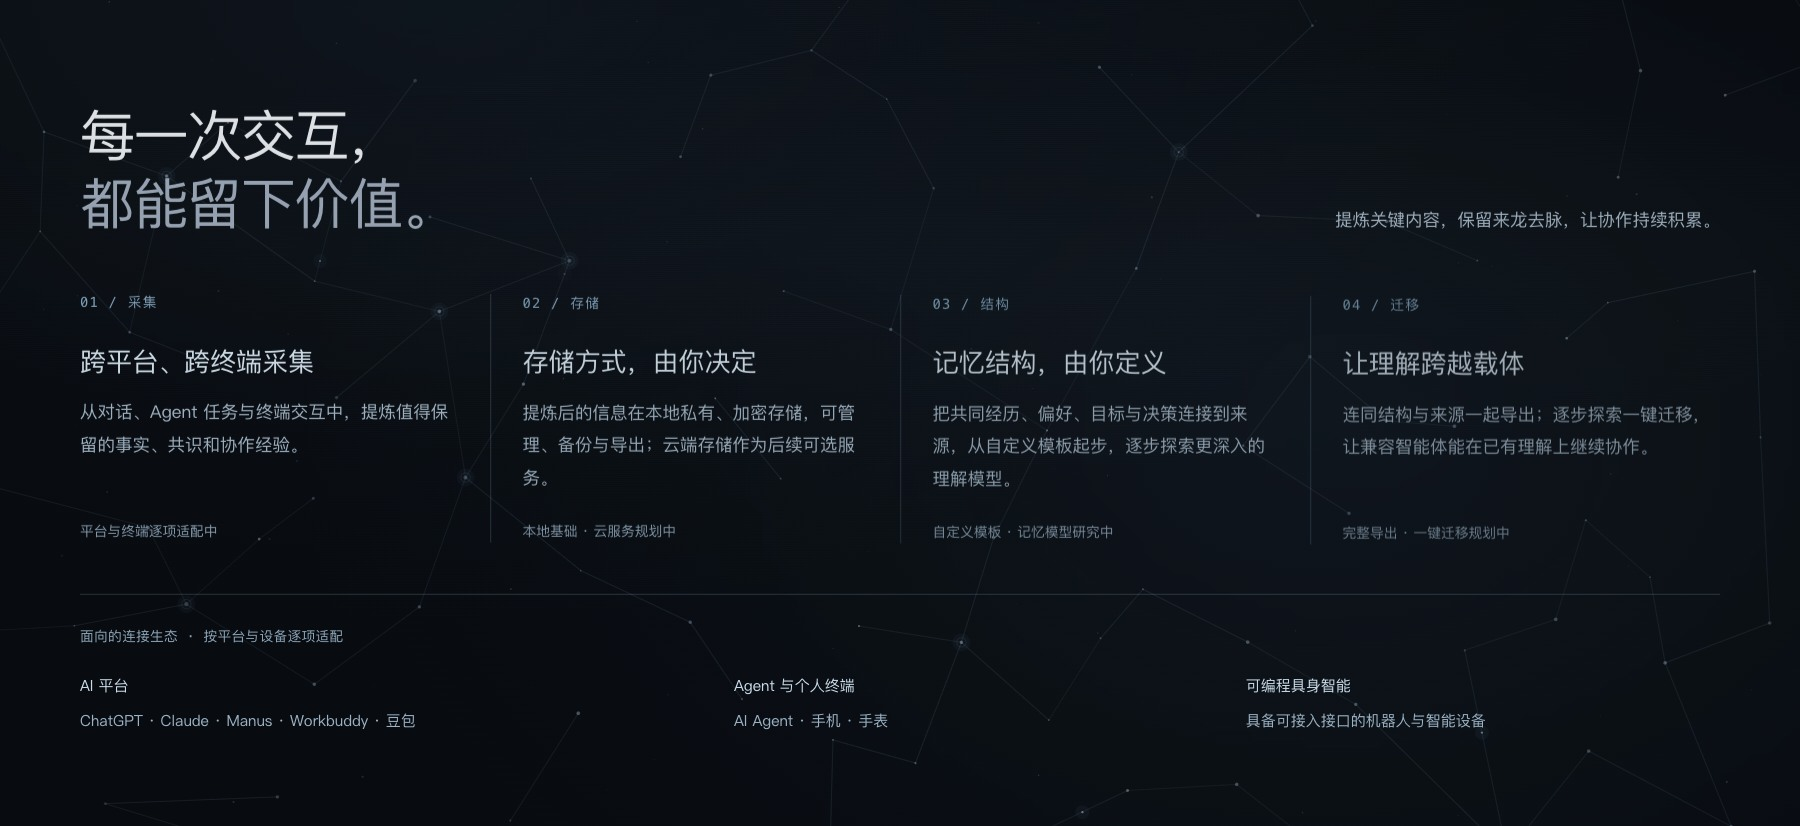
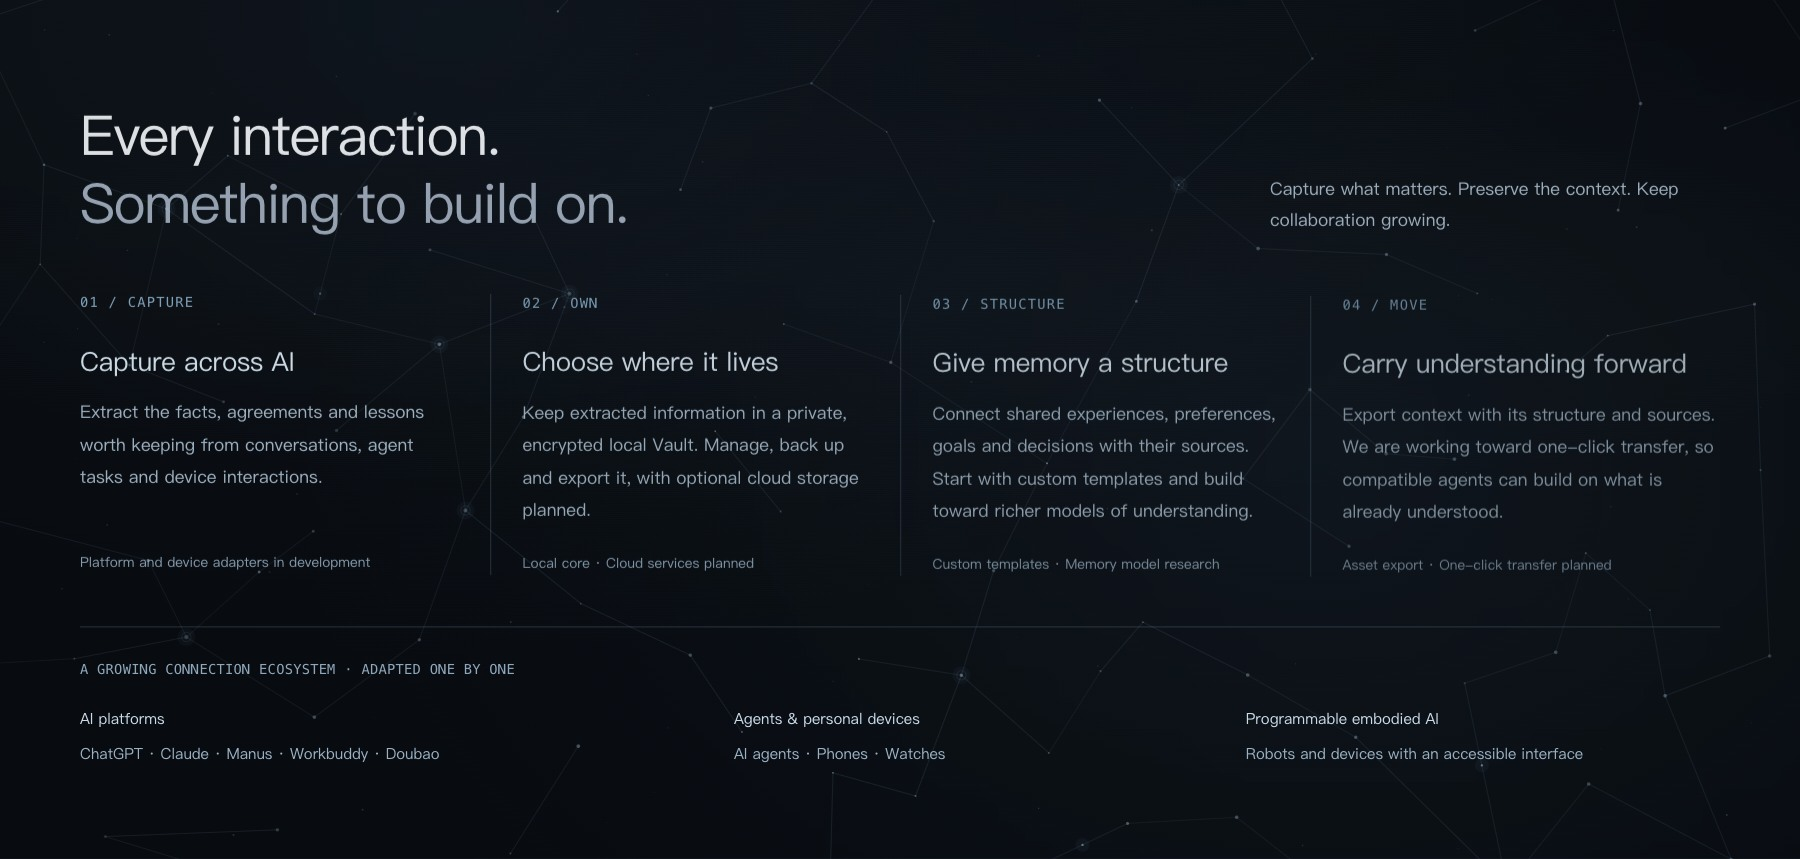
Refresh bilingual origin story and publish English website visuals and animations

diff --git a/README.en.md b/README.en.md
@@ -20,11 +20,21 @@ You have already explained your project, preferences, decisions and next steps t
 
 Nova Memory turns useful collaboration context into a personal asset you can maintain. Keep the original words, their source, the conditions that matter and the history of a change. Let an authorized AI pick up the relevant context when it is useful again.
 
-This repository is a **local source preview**. All visuals use English. The website hero presents the design direction; diagrams explain product mechanisms, and the animation illustrates memory accumulation. Diagrams and animation are conceptual, rather than UI recordings. See the [image provenance](docs/media/README.md).
+This repository is a **local source preview**. Both README editions use English visuals. Website sections show the design and research direction; the horizontal animation explains capture, structuring and scoped reuse, while the memory-sphere animation is a local render of the English website. Neither animation is a recording of a live personal Vault. See the [image provenance](docs/media/README.md).
+
+## It started with conversations on my commute
+
+Nova is my AI voice assistant. Conversations on my commute became a place to discuss products, work, investing and everyday life. Ideas for Awesome Stock, Atom Awareness, Nova Digital Marketing Platform and Intelligence Hub developed through those conversations and continued at the computer.
+
+As we kept working together, she became more familiar with the background to these projects and choices. Nova began to feel like a personal Jarvis. Yet the context remained scattered across platforms and conversations. Moving to Cursor or another research tool meant explaining earlier decisions, failed approaches and unresolved questions again.
+
+Nova Memory grew from that need. It is Atom Awareness's second product line: keep a lasting, maintainable record of shared experience, so a familiar companion can continue working across AI platforms and, eventually, devices.
 
 ## The product
 
 Four connected ideas guide the product, from an interaction worth keeping to an ongoing collaboration.
+
+![Capture, own, structure and move: the English website product overview](docs/media/website-four-pillars.jpg)
 
 | Pillar | What it gives you | Design intent |
 | --- | --- | --- |
@@ -33,23 +43,13 @@ Four connected ideas guide the product, from an interaction worth keeping to an 
 | **Structure** | Organize experiences, preferences, goals and decisions with their evidence | Preserve context, time, uncertainty and corrections as the structure develops |
 | **Move** | Carry relevant understanding into another AI or task | Connect tools to a shared memory store or select a one-time context pack |
 
-![Capture, own, structure and continue](docs/media/memory-workflow.png)
-
 Selected content arrives through MCP connectors or plugins; supported Hook events can also send material to the capture interface. Originals and provenance are stored in the local Vault before asynchronous extraction of conditions, relationships and versions. Authorization is checked before retrieval, then scoped context is delivered through MCP or a Context Pack. A shared memory store does not require cloud hosting.
 
-![Cross-AI capture and scoped reuse](docs/media/memory-architecture.png)
+![Cross-AI capture and reuse](docs/media/memory-architecture.gif)
 
-*Architecture illustration. Nodes and links represent accumulation; geometry does not encode real semantic distance. Actual relationships depend on provenance and structure rules. Platform availability is listed below.*
+*Conceptual architecture animation. Nodes and links illustrate accumulation; geometry does not encode real semantic distance. Actual relationships depend on provenance and structure rules. Platform availability is listed below.*
 
 For example, “During the Atlas launch phase, schedule weekday team meetings after 14:00, except for urgent incidents.” A useful memory carries the preference, its project phase and its exception. When circumstances change, revise the memory and retain its previous version and reasoning.
-
-## It started with conversations on my commute
-
-Nova is my AI voice assistant. Conversations on my commute became a place to discuss products, work, investing and everyday life. Ideas for Awesome Stock, Atom Awareness, Nova Digital Marketing Platform and Intelligence Hub developed through those conversations and continued at the computer.
-
-As that shared history grew, Nova began to feel like a personal Jarvis. Yet the context remained scattered across platforms and conversations. Moving to Cursor or another research tool meant explaining earlier decisions, failed approaches and unresolved questions again.
-
-Nova Memory grew from that need. It is Atom Awareness's second product line: keep a lasting, maintainable record of shared experience, so a familiar companion can continue working across AI platforms and, eventually, devices.
 
 ## Inside the workbench
 
@@ -89,6 +89,8 @@ A text copy is retained by its recipient. Later corrections and revocation contr
 
 **NMM · Nova Memory Model** is the research codename for Nova's memory structure work. It explores how episodes, claims, goals and decisions can form traceable, revisable and evolving understanding.
 
+![The English website memory structure concept](docs/media/website-memory-model.jpg)
+
 The product organizes this work into three layers.
 
 ![Original materials, structured memory and ongoing understanding](docs/media/memory-layers.png)
@@ -111,7 +113,7 @@ Some foundations need to remain dependable as the structure evolves.
 Six connected research perspectives extend this foundation.
 
 <p align="center">
-  <img src="docs/media/memory-network.gif" width="640" alt="English conceptual memory sphere">
+  <img src="docs/media/memory-network.gif" width="640" alt="English website memory sphere: episodes, claims, goals, decisions, personal model and evolution">
 </p>
 
 | Perspective | The question it explores |
@@ -125,7 +127,16 @@ Six connected research perspectives extend this foundation.
 
 The current product includes structured records, provenance, versions, Wiki views and graph projections. Deeper personal models, complex relationships and cross-device projections remain research directions to validate through use.
 
+<details>
+<summary>Explore the English website structure concept</summary>
+
+![English website concept explorer: objects, evidence, relations, time and authority](docs/media/website-structure-explorer.jpg)
+
+</details>
+
 ## Memory under your control
+
+![English website concept: an independent memory core and selective boundaries](docs/media/website-sovereignty.jpg)
 
 ![Inspect, authorize and carry your memory forward](docs/media/memory-control.png)
 
@@ -182,6 +193,8 @@ Glasses are another promising entry point. An Even Hub application could use a p
 
 AI will span many platforms and devices. We want a conversation on a phone to continue on a computer or glasses, and shared experiences to remain findable years later: a familiar companion that moves across models and devices, closer to a Jarvis in everyday life.
 
+![The English website long-term vision](docs/media/website-vision.jpg)
+
 ## Build it with us
 
 Nova Memory is created and maintained by Evan as Atom Awareness's second product line. Developers, researchers and investors working on personal memory, agents and wearables are welcome to connect.
@@ -192,7 +205,7 @@ Nova Memory is created and maintained by Evan as Atom Awareness's second product
 
 Local-product code is licensed under [AGPL-3.0-only](LICENSE). Dependencies retain their licenses. See [LICENSE_SCOPE.md](LICENSE_SCOPE.md) for the software scope, branding and corresponding-source delivery.
 
-Website imagery comes from the [Nova Memory website](https://nova-memory.atom-evan001.chatgpt.site/), whose current entry may require access permission. The hero uses an English local render of the same website source. Other visuals are English mechanism diagrams; the sphere uses the architecture illustration's conceptual geometry, rather than a live Vault projection.
+Website imagery comes from the [Nova Memory website](https://nova-memory.atom-evan001.chatgpt.site/), whose current entry may require access permission. Website sections and the sphere animation are local renders of its existing English interface. The architecture animation and layer diagrams explain mechanisms. Geometric connections are not evidence of actual semantic relationships in a Vault.
 
 ---
 

diff --git a/docs/media/README.md b/docs/media/README.md
@@ -1,16 +1,34 @@
-# Nova Memory media / English edition
+# Nova Memory showcase media / English edition
 
-Updated 2026-11-21. Both README language editions use the same English visuals.
+Updated 2026-11-22. Both README language editions use the same English visuals.
+
+## Website design
+
+The English website was rendered locally from its existing source on 2026-11-22. These captures show product design and research concepts, not the current desktop workbench or a live personal Vault. Existing artwork and the approved primary logo are preserved.
 
 | File | Source and meaning |
 | --- | --- |
-| `website-hero.en.jpg` | Existing English website hero, rendered locally from official design source on 2026-11-19. Design concept. |
+| `website-hero.en.jpg`, `website-hero.jpg` | English website hero and memory sphere. |
+| `website-four-pillars.jpg` | English capture, ownership, structure and continuity section; platform/device expansion remains a direction. |
+| `website-memory-model.jpg` | Existing layered-memory concept artwork; no textual labels. |
+| `website-structure-explorer.jpg` | English website example explorer: objects, evidence, relations, time and authority. |
+| `memory-network-evolution.jpg` | English website evolution research perspective. |
+| `website-sovereignty.jpg` | Existing selective-boundaries concept artwork; no textual labels. |
+| `website-vision.jpg` | English website long-term vision. |
+| `memory-network.gif` | 24 rendered frames of the actual English website sphere, looping at 8 fps. Its six research labels are English. Concept visualization, not a live semantic graph. |
+
+## Mechanism diagrams
+
+| File | Source and meaning |
+| --- | --- |
 | `memory-workflow.png` | English mechanism diagram: capture, local ownership, structure and scoped reuse. |
-| `memory-layers.png` | English diagram of original materials, structured memory and project/topic understanding. |
+| `memory-layers.png` | English diagram of originals, structured memory and project/topic understanding. |
 | `memory-control.png` | English diagram of correction, authorization and portability. |
-| `memory-architecture.png` | English adaptation of the 2026-11-21 article architecture diagram. Same platform-to-Vault flow and conceptual graph geometry, rasterized from translated diagram primitives. |
-| `memory-network.gif` | English sphere animation using the architecture diagram geometry and six research perspectives. Concept illustration, not a website recording or live Vault graph. |
+| `memory-architecture.gif` | English version of the article's horizontal architecture animation: six AI entry points, capture, a local Vault, growing illustrative nodes and scoped reuse. 160 frames, 16 seconds, looping. |
+| `memory-architecture.png` | Static English architecture diagram. |
 
-Diagrams do not establish all-platform availability, live semantic distances, model quality or completed wearable integration. Platform status is described separately in the READMEs. Chinese workbench captures are replaced with English mechanism illustrations; this does not claim an English workbench has shipped.
+The architecture preserves the original diagram geometry and timing; English labels are rendered from SVG, without repainting screenshot text. Nodes and connections are illustrative, not live data or inferred semantic distances. Diagrams do not establish all-platform availability, model quality or completed wearable integration. The READMEs retain platform-specific availability and distinguish MCP retrieval from exported Context Pack copies.
 
-Product code licensing and branding are described in [LICENSE_SCOPE.md](../../LICENSE_SCOPE.md).
+Old Chinese workbench captures are omitted from the current showcase media. Original authoring materials remain in the local project workspace and the repository history. This presentation update does not claim that an English desktop interface or wearable integration has shipped.
+
+Code licensing and branding are described in [LICENSE_SCOPE.md](../../LICENSE_SCOPE.md).
